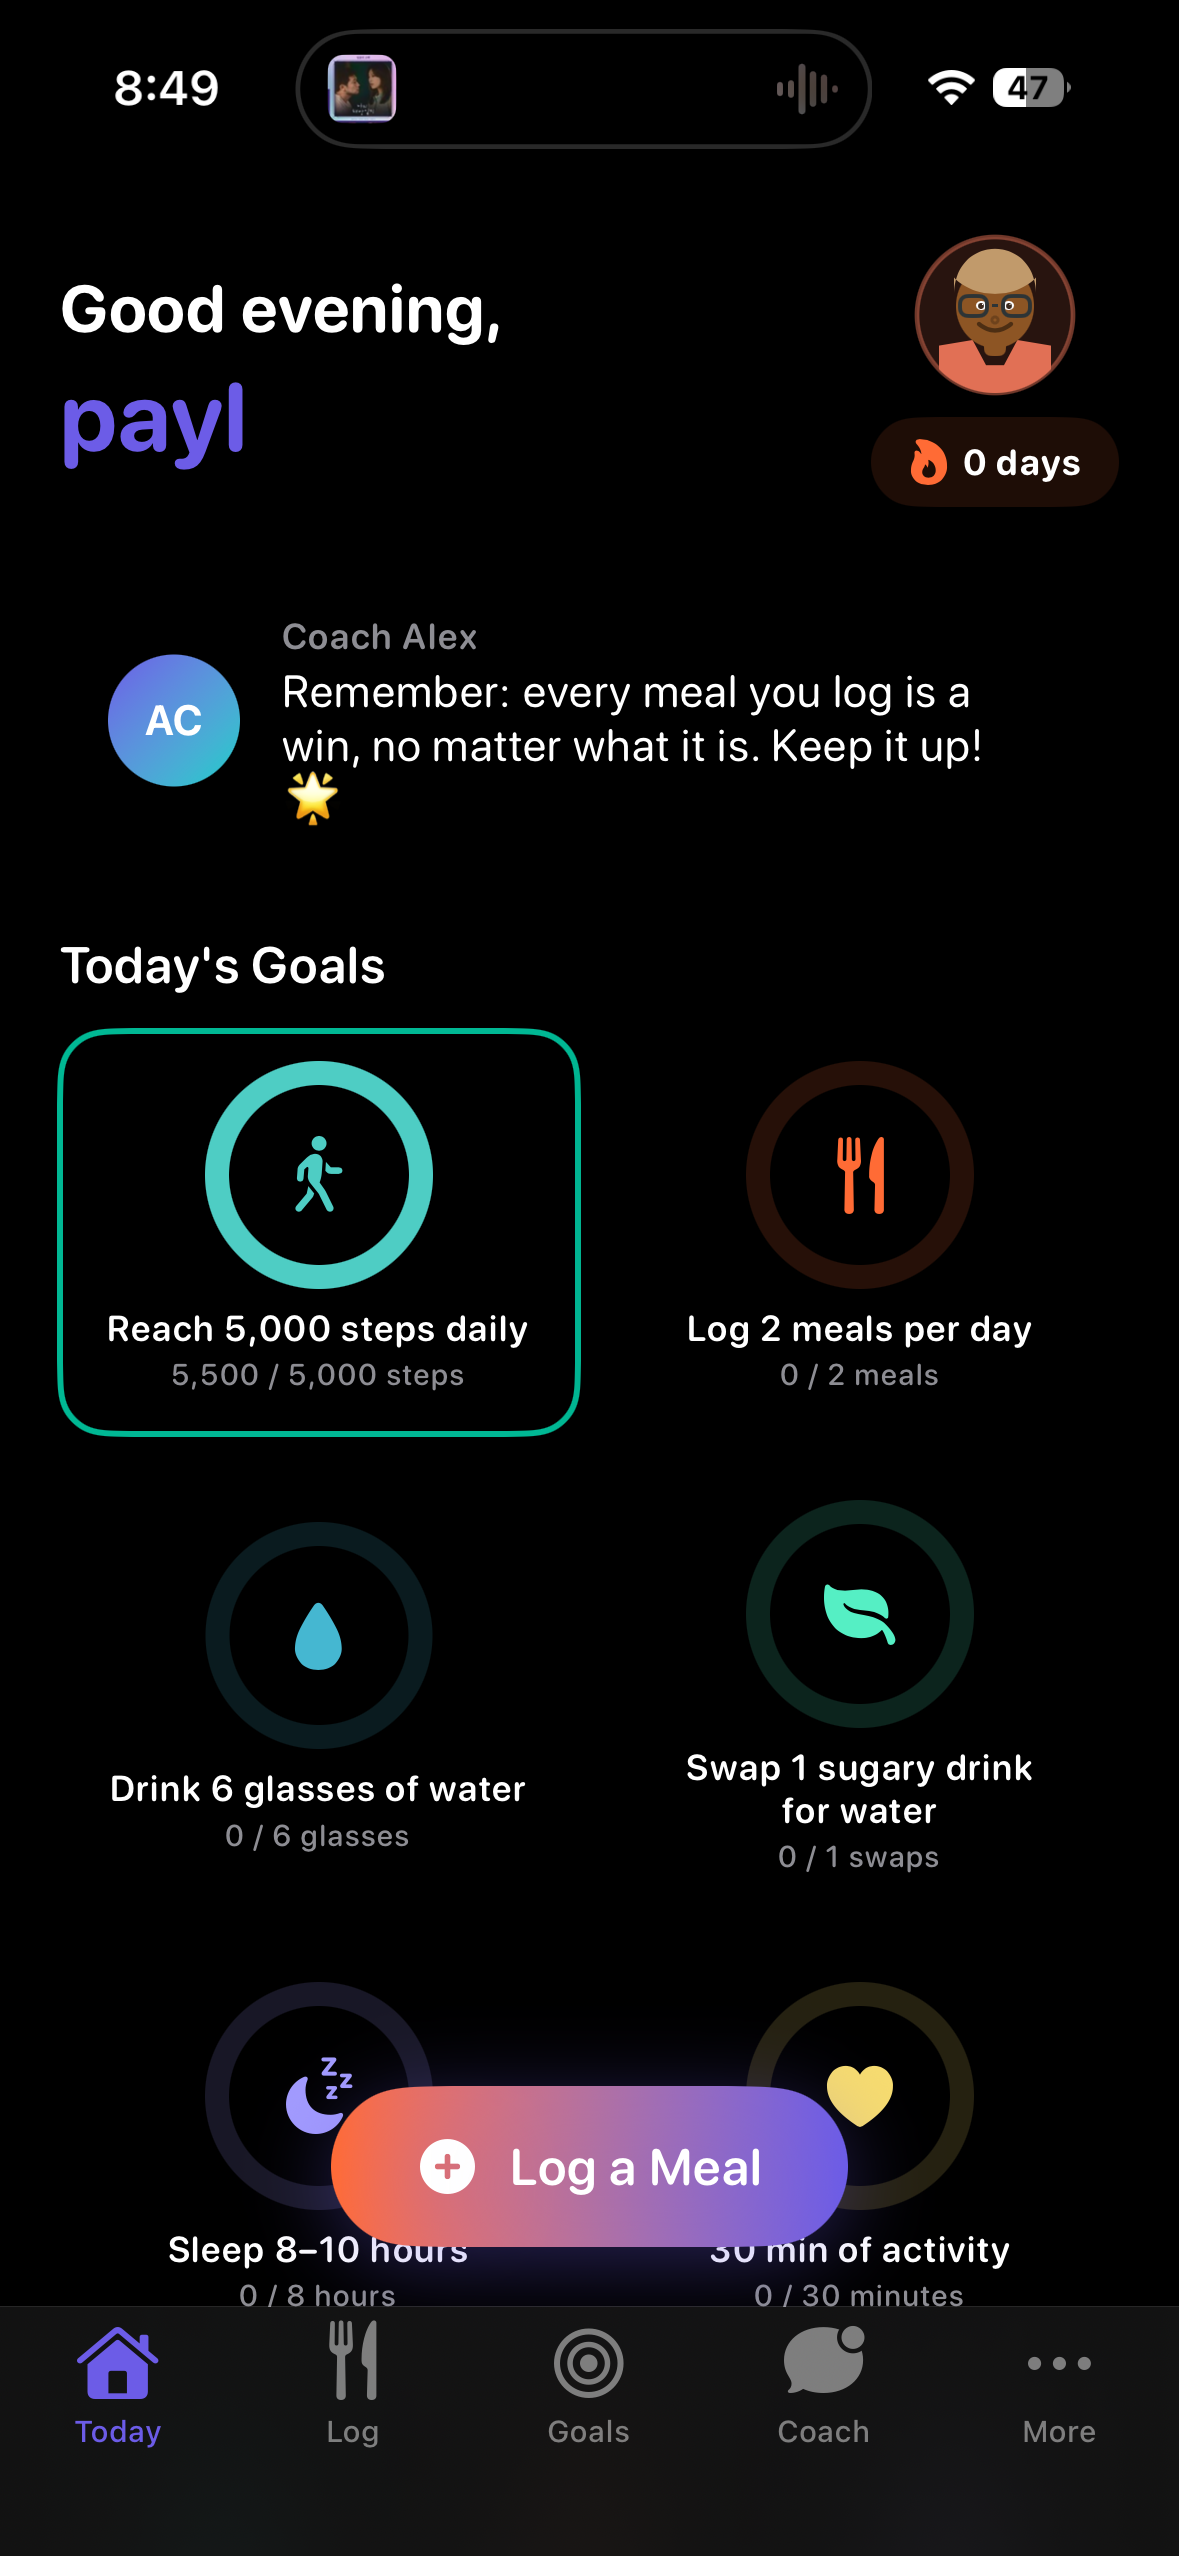
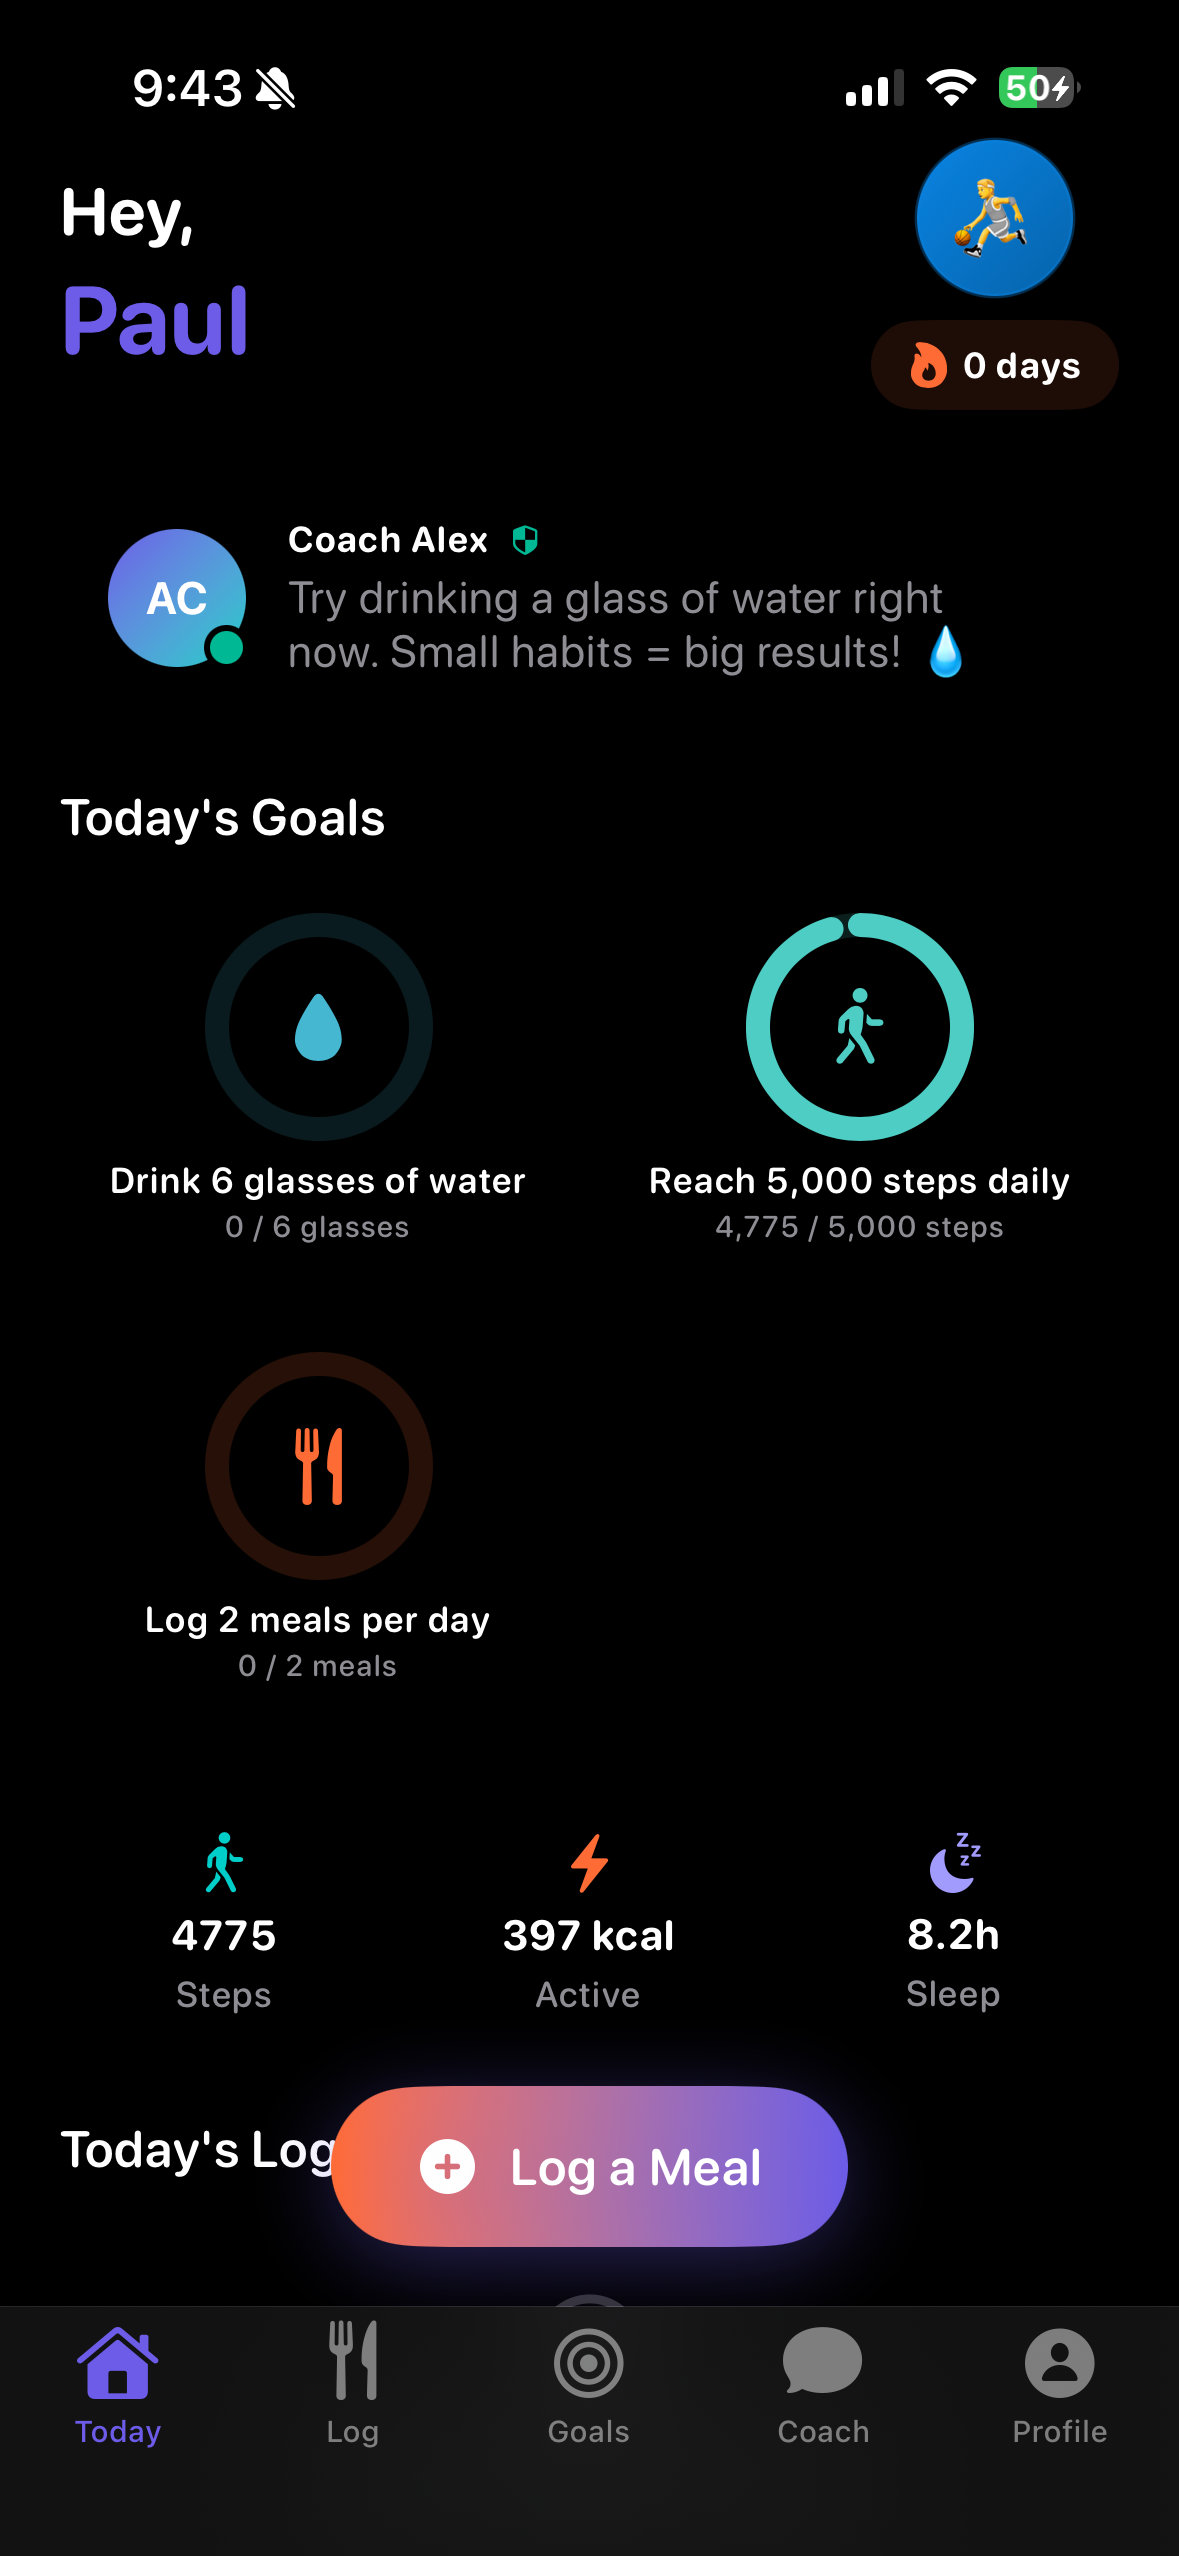
Add full screenshot gallery with all 7 app screens
Today, Food Log, Log a Meal, Goals, Coach, Progress, Support.
Updated README with screenshot table and detailed feature descriptions
for each screen based on actual app content.

diff --git a/README.md b/README.md
@@ -8,17 +8,33 @@ TeenHealth is designed as a **supplement to clinical care**, not a replacement. 
 
 ## Screenshots
 
-<p float="left">
-  <img src="screenshots/today.png" width="250" alt="Today Dashboard" />
-  &nbsp;&nbsp;&nbsp;
-  <img src="screenshots/progress.png" width="250" alt="Progress & Levels" />
+<p align="center">
+  <img src="screenshots/today.png" width="180" alt="Today" />
+  &nbsp;
+  <img src="screenshots/food-log.png" width="180" alt="Food Log" />
+  &nbsp;
+  <img src="screenshots/log-meal.png" width="180" alt="Log a Meal" />
+  &nbsp;
+  <img src="screenshots/goals.png" width="180" alt="Goals" />
 </p>
 
-**Left:** The Today dashboard shows active goals with progress rings, a daily summary (steps, active energy, sleep), a motivational message from Coach Alex, and a quick meal log button.
+<p align="center">
+  <img src="screenshots/coach.png" width="180" alt="Coach" />
+  &nbsp;
+  <img src="screenshots/progress.png" width="180" alt="Progress" />
+  &nbsp;
+  <img src="screenshots/support.jpg" width="180" alt="Support" />
+</p>
 
-**Right:** The Progress tab tracks weekly steps and meals with bar charts, shows the user's current level and points (Seedling → Sprout → ...), and displays earned badges. HealthKit data is pulled automatically.
-
-> More screenshots coming — some features are still being refined.
+| Screen | Description |
+|---|---|
+| **Today** | Personalized dashboard with goal progress rings, step/calorie/sleep stats from HealthKit, and a Coach Alex tip |
+| **Food Log** | Logged meals organized by day with streak tracking |
+| **Log a Meal** | Quick-pick foods, photo logging, and meal-type selector |
+| **Goals** | Active goals with progress bars, weekly stats, and completion checkmarks |
+| **Coach** | Real AI conversation with Coach Alex (Groq / Llama 3.3 70B) |
+| **Progress** | Level system (Seedling → Sprout → ...), weekly step and meal charts |
+| **Support** | Crisis resources, coach link, and trusted adult guidance |
 
 ---
 
@@ -41,40 +57,53 @@ Most health apps for teenagers either treat them like adults (calorie deficits, 
 - Swipe-lock: required fields must be filled before advancing
 
 ### Today Dashboard
-- Personalized greeting with the user's avatar
+- Personalized greeting with the user's avatar and name
 - Progress rings for each active goal — turn green with a checkmark when completed
-- Quick stats: steps, active energy, sleep (pulled from HealthKit)
+- Quick stats pulled from HealthKit: steps, active energy (kcal), sleep hours
 - Daily meal log timeline
-- One-tap "Log a Meal" button
+- One-tap "Log a Meal" floating button
 
 ### Food Log
-- Photo logging, quick-pick favorites, and manual search
-- Weekly calendar strip to browse past days
-- Organized by meal type (breakfast, lunch, dinner, snack)
+- Weekly streak tracker with day-by-day dot indicators
+- Meal entries organized by type (breakfast, lunch, dinner, snack)
+- Quick re-log and favourite buttons per entry
+- Add meals via photo, quick-pick grid, or manual search
+
+### Log a Meal
+- Meal type selector (Breakfast / Lunch / Dinner / Snack)
+- "Take a Photo" — fastest logging method
+- Quick-pick grid (Apple, Banana, Chicken, Rice, Salad, Sandwich, Yogurt, Oatmeal, Pasta, Soup, and more)
+- Optional note: "How did this meal make you feel?"
 
 ### Goals
 - 3 research-backed starter goals auto-created on signup (2 meals/day, 5,000 steps, 6 glasses of water)
-- Fully customizable — teens set their own targets
-- Visual progress bars with completion states
+- Live progress bars with percentage complete
+- Completed goals show a green checkmark
+- Update, pause, or delete any goal
+- Add custom goals with the + button
 
 ### AI Coach
 - Real conversations with **Coach Alex**, powered by **Groq (Llama 3.3 70B)**
-- Context-aware replies — the coach remembers the last 10 messages
-- Encouraging, non-restrictive tone. Never mentions calories, weight, or dieting.
-- Typing indicator and message timestamps
+- Context-aware replies using the last 10 messages
+- Encouraging, non-restrictive tone — never mentions calories, weight, or dieting
+- Typing indicator, timestamps, and read receipts
+- Secure end-to-end indicator
 
 ### Progress
-- Weekly bar charts for steps and meals logged (HealthKit-integrated)
-- Level progression system: Seedling → Sprout → ... with point milestones
-- Badge collection earned through streaks, logging, and first messages
+- Level progression: Seedling → Sprout → ... with point milestones
+- Weekly bar charts for steps and meals logged
+- HealthKit-integrated step data (goal met vs. below goal)
+- Badge collection and streak display
+
+### Support
+- Crisis Text Line direct link (Text HOME to 741741)
+- "Talk to Your Coach" shortcut
+- "Tell a Trusted Adult" guidance
+- Built into the app so help is always one tap away
 
 ### Profile
 - Avatar and display name
-- Links to Progress, Learn, and Settings in one place
-
-### Learn
-- Education cards on nutrition, movement, sleep, and mental wellness
-- Evidence-based content written for a teen audience
+- Quick links to Progress, Learn, and Settings
 
 ### Settings
 - Profile and avatar editing
@@ -147,7 +176,7 @@ Most health apps for teenagers either treat them like adults (calorie deficits, 
 ## Privacy & Data
 
 - All personal data is stored **on-device only** — nothing is sent to a third-party server
-- Coach messages go to Groq's API for AI processing only — no data is stored or sold
+- Coach messages are processed by Groq's API only — no data is stored or sold
 - Parental consent is required before any data is collected (COPPA-aware flow)
 - Users can delete all their data at any time from Settings
 